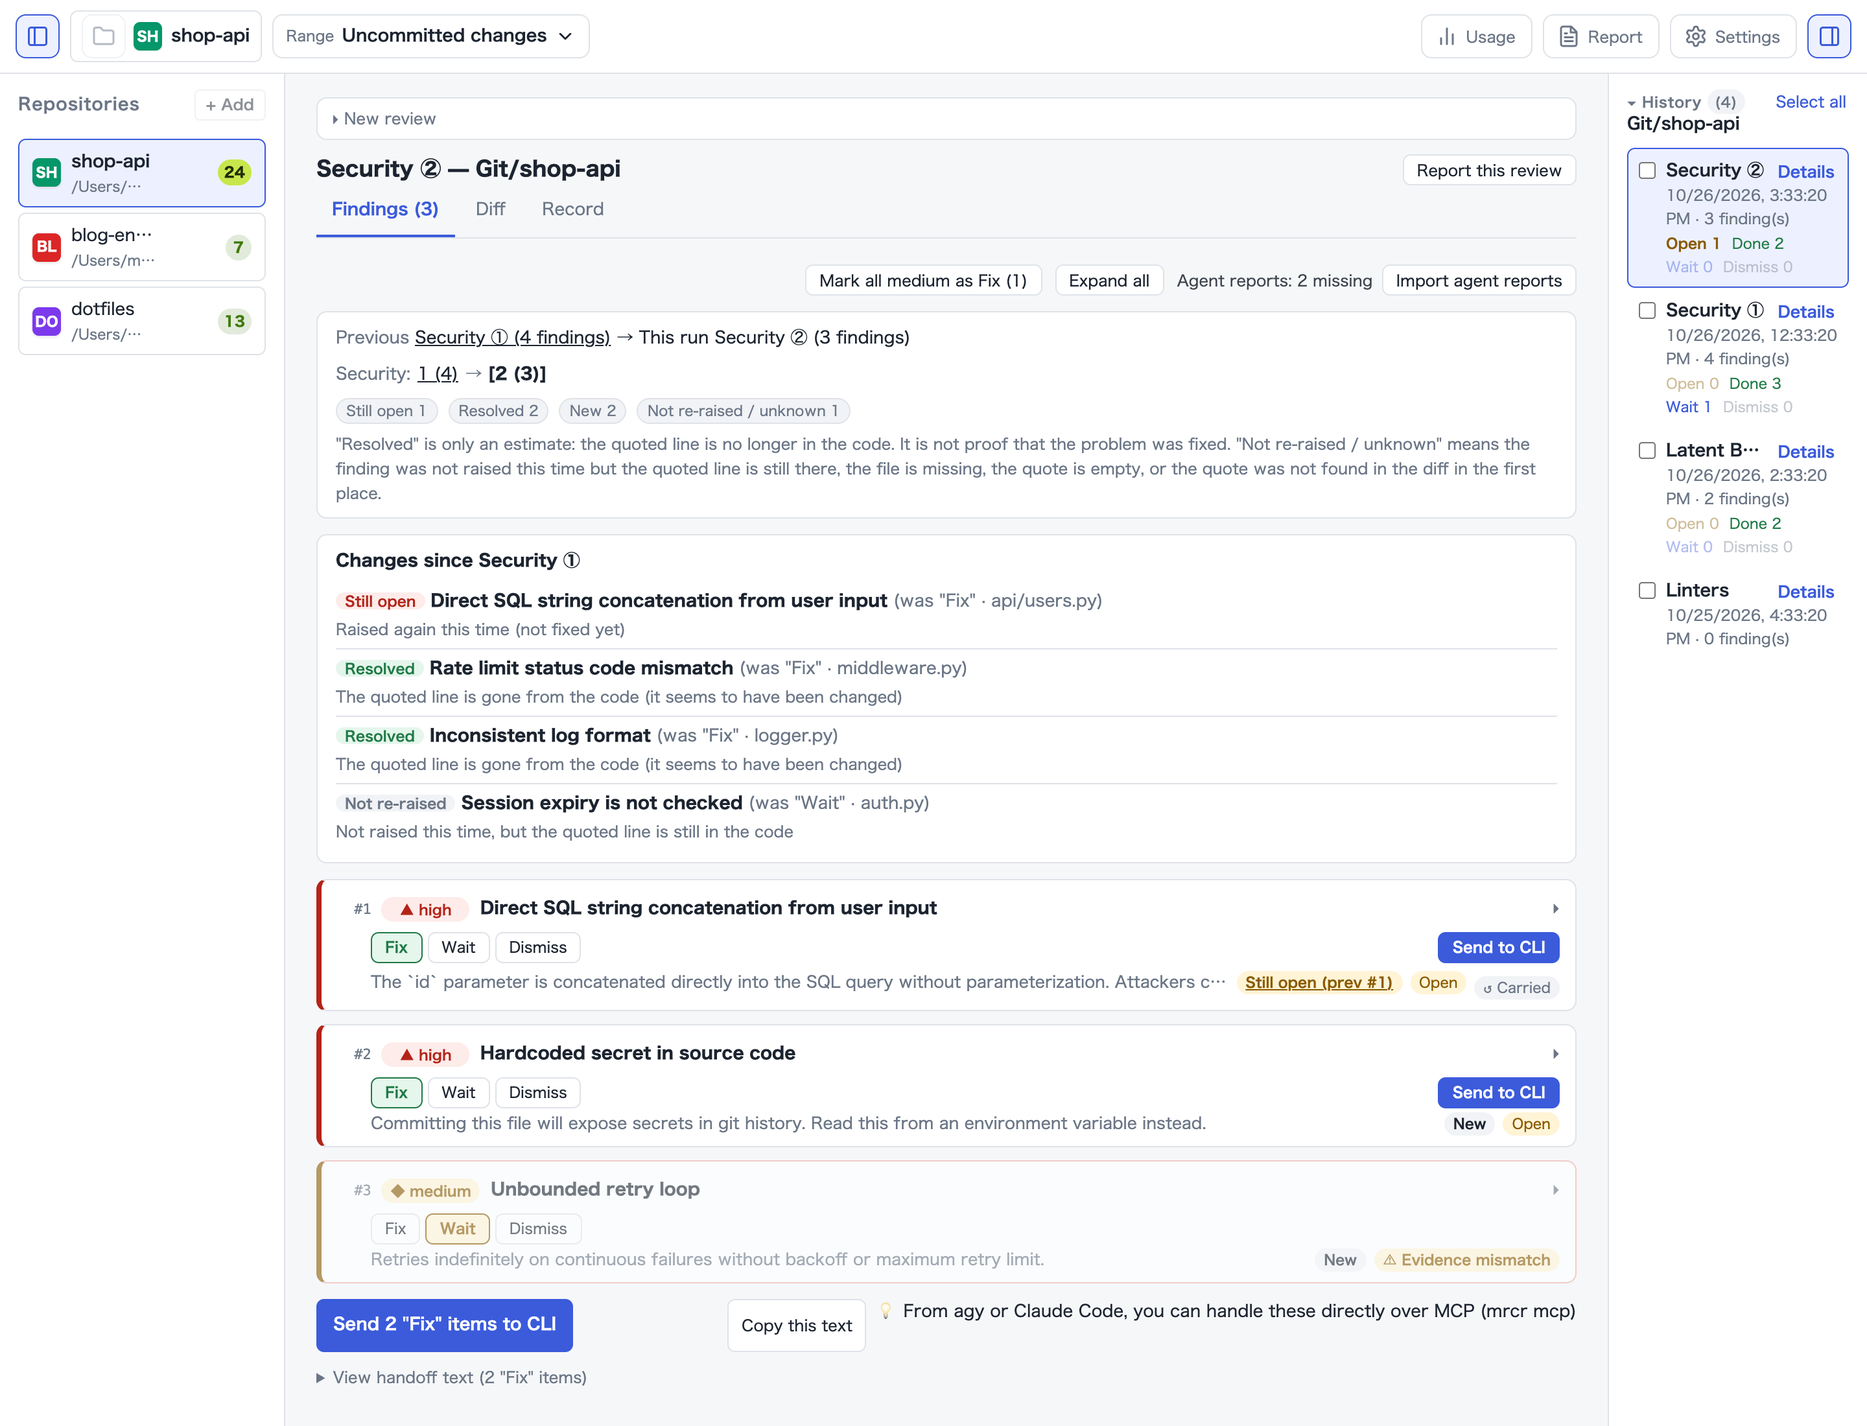
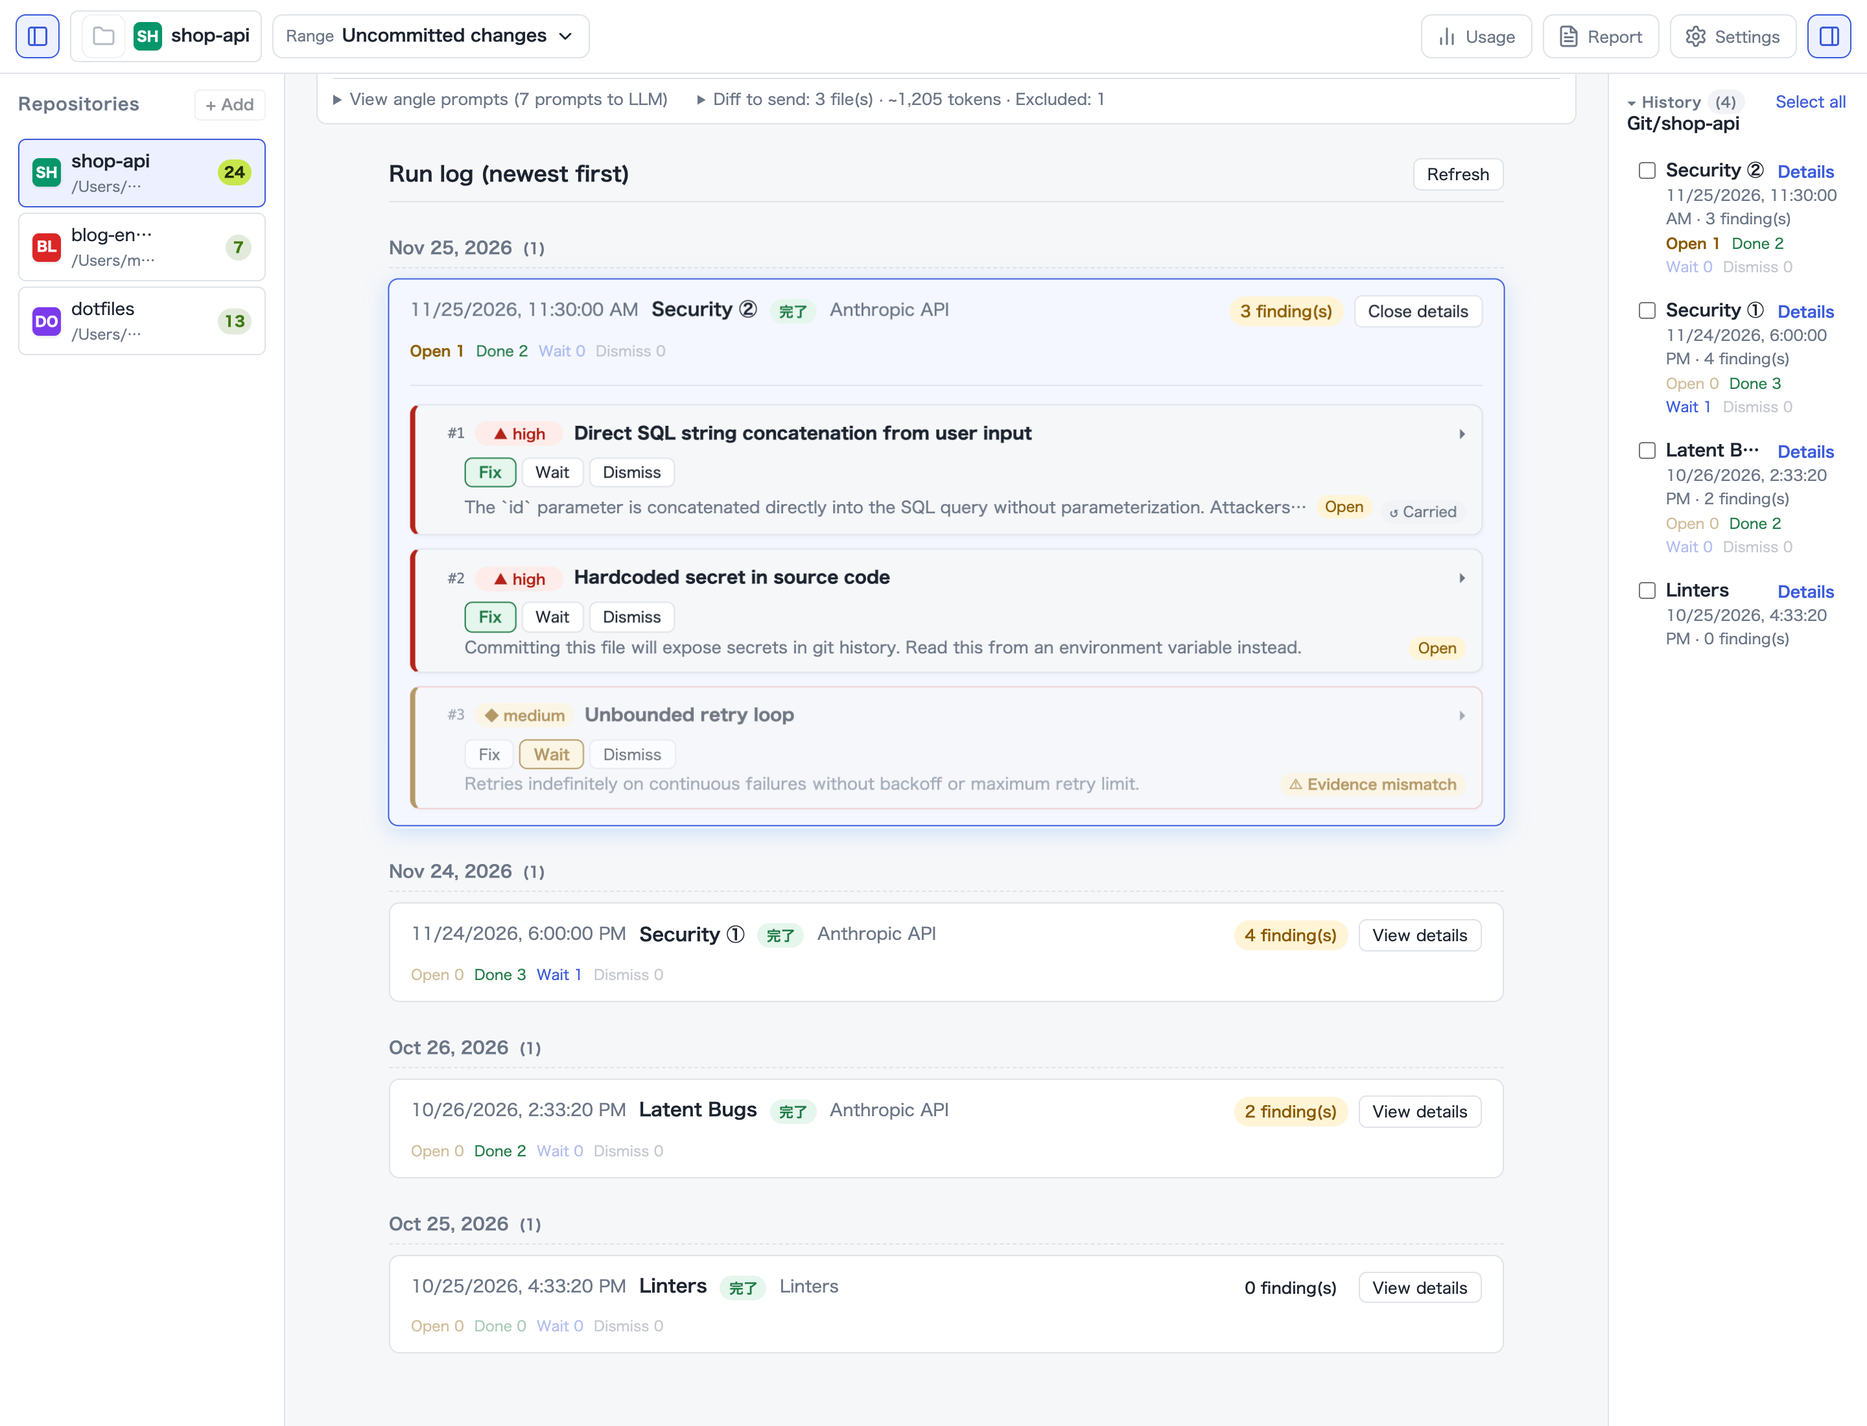
docs: README の hero 画像を最新UI（v1.13.1）に更新し、実行ログタイムライン・インライン展開の画像を追加

diff --git a/app/scripts/take_all_lp_shots.py b/app/scripts/take_all_lp_shots.py
@@ -1,0 +1,326 @@
+#!/usr/bin/env python3
+"""
+Generate LP & README screenshots for MrCodeReview (ja and en):
+1. hero: Review detail screen (findings, diff, continuity banner, triage)
+2. runlog-feed: Initial screen with execution log timeline & inline 2-level expansion
+
+Outputs:
+- MrCodeReview/art/hero.png, hero-en.png (2880x2200)
+- MrCodeReview/art/runlog-feed.png, runlog-feed-en.png (2880x2200)
+- MrkTools/public/assets/mrcodereview/media/hero-v2.png, hero-v2-en.png (2400x1500)
+- MrkTools/public/assets/mrcodereview/media/feature-runlog.png, feature-runlog-en.png (2400x1500)
+- MrkTools/local/hero-shots/mrcodereview/ja/hero.png, en/hero.png
+"""
+import copy
+import datetime
+import importlib.util
+import json
+import os
+import pathlib
+import socket
+import subprocess
+import sys
+import time
+import urllib.request
+from playwright.sync_api import sync_playwright
+
+ROOT = pathlib.Path(__file__).resolve().parent.parent.parent  # MrCodeReview/
+APP = ROOT / "app"
+MRKTOOLS = pathlib.Path.home() / "Git/MrkTools"
+
+EXE = "/Applications/Google Chrome.app/Contents/MacOS/Google Chrome"
+if not os.path.exists(EXE):
+    EXE = "/Users/hitoshi/Library/Caches/ms-playwright/chromium_headless_shell-1234/chrome-headless-shell-mac-arm64/chrome-headless-shell"
+
+spec = importlib.util.spec_from_file_location("lp_en", APP / "scripts" / "take_lp_shots_en.py")
+lp = importlib.util.module_from_spec(spec)
+spec.loader.exec_module(lp)
+
+JA_FINDINGS = [
+    ("ユーザー入力を SQL に直接つないでいる", "id をそのまま SQL に連結しているため、`1 OR 1=1` のような入力で、全ユーザーの行が返ります。プレースホルダ（$1）に戻してください。"),
+    ("秘密の値がソースに直書きされている", "コミットすると、履歴に残ります。環境変数から読む形にしてください。"),
+    ("リトライの上限が無い", "失敗が続くと、無限に再試行します。"),
+]
+JA_RECIPES = ["セキュリティ", "潜在バグ", "例外処理", "パフォーマンス", "テスト不足", "ファイル間の不整合", "リンター"]
+
+NOW = 1795500000000  # 約 2026-11-25
+JST = datetime.timezone(datetime.timedelta(hours=9))
+
+
+def ms(d, h, m, s):
+    return int(datetime.datetime(2026, 11, d, h, m, s, tzinfo=JST).timestamp() * 1000)
+
+
+def make_hook_status(lang):
+    ja = lang == "ja"
+    return {
+        "repo": "/Users/me/Git/shop-api",
+        "enabled": True,
+        "recipes": ["bugs", "security"],
+        "spec": None,
+        "installed": True,
+        "cli": "/opt/homebrew/bin/mrcr",
+        "hook_cli": "/opt/homebrew/bin/mrcr",
+        "blocked": None,
+        "target_missing": False,
+        "last_run": None,
+        "recent": [
+            {
+                "run": "run-hook-1",
+                "started_at_ms": ms(25, 12, 10, 0),
+                "commit": "a4f82bc",
+                "subject": "SQL クエリのプレースホルダ修正" if ja else "Fix SQL query placeholders",
+                "recipes": ["bugs", "security"],
+                "steps": [
+                    {"recipe": "bugs", "index": 1, "total": 2, "ok": True, "findings": 0, "ms": 2800, "error": None},
+                    {"recipe": "security", "index": 2, "total": 2, "ok": True, "findings": 1, "ms": 3200, "error": None},
+                ],
+                "state": "done",
+                "code": 1,
+                "message": "レビュー完了（指摘あり 1 件）" if ja else "Review finished (1 finding)",
+                "findings": 1,
+                "ms": 6000,
+            }
+        ],
+        "log_unreadable": 0,
+    }
+
+
+def add_continuity_data(d, lang):
+    ja = lang == "ja"
+    rev = d["review"]
+    first = d["hist"][0]
+    prev = {
+        **first,
+        "id": "r0",
+        "seq": 1,
+        "created_at": ms(24, 18, 0, 0),  # 前日
+        "findings": 4,
+        "verified": 4,
+        "total_tokens": 2400,
+        "counts": {"open": 0, "done": 3, "wait": 1, "dismiss": 0},
+    }
+    first["seq"] = rev["seq"] = 2
+    first["created_at"] = ms(25, 11, 30, 0)  # 本日
+    d["hist"].insert(1, prev)
+    rev["previous"] = {"id": "r0", "created_at": prev["created_at"], "findings": 4, "seq": 1}
+    titles = (
+        [
+            ("ユーザー入力を SQL に直接つないでいる", "api/users.py"),
+            ("レート制限超過時のステータスコードが違う", "middleware.py"),
+            ("ログ出力の書式が揃っていない", "logger.py"),
+            ("セッションの有効期限を確かめていない", "auth.py"),
+        ]
+        if ja
+        else [
+            ("Direct SQL string concatenation from user input", "api/users.py"),
+            ("Rate limit status code mismatch", "middleware.py"),
+            ("Inconsistent log format", "logger.py"),
+            ("Session expiry is not checked", "auth.py"),
+        ]
+    )
+    states = ["fix", "fix", "fix", "wait"]
+    outcomes = ["persists", "gone", "gone", "not_reraised"]
+    rev["fates"] = [
+        {"from_review": "r0", "from_index": i, "title": t, "file": f, "state_before": states[i], "fate": outcomes[i]}
+        for i, (t, f) in enumerate(titles)
+    ]
+    rev["carries"] = [{"from_review": "r0", "from_index": 0, "state": "fix", "exact": True}, None, None]
+
+
+def get_demo_data(lang):
+    d = copy.deepcopy(lp.make_demo_data())
+    ja = lang == "ja"
+    if ja:
+        for f, (t, det) in zip(d["review"]["findings"], JA_FINDINGS):
+            f["title"], f["detail"] = t, det
+        for r, t in zip(d["recipes"]["recipes"], JA_RECIPES):
+            r["title"] = t
+        d["review"]["recipe"] = d["recipes"]["recipes"][0]
+        d["providers"][0]["note"] = "自分の API キーで、直接送ります。中継のサーバはありません。"
+        d["snap"]["excluded"] = d["review"]["snapshot"]["excluded"] = [{"path": "package-lock.json", "reason": "ロックファイル"}]
+        d["hist"][0]["recipe_title"], d["hist"][1]["recipe_title"], d["hist"][2]["recipe_title"] = "セキュリティ", "潜在バグ", "リンター"
+        d["hist"][2]["provider_label"] = "リンター"
+        d["settings"]["values"]["language"] = "ja"
+    add_continuity_data(d, lang)
+    d["hook_status"] = make_hook_status(lang)
+    return d
+
+
+def build_mock_script(lang):
+    data = get_demo_data(lang)
+    handoff_escaped = lp.HANDOFF.replace("'", "\\'")
+    s = f"""
+window.__DATA = {json.dumps(data, ensure_ascii=False)};
+window.__TAURI_INTERNALS__ = {{
+  transformCallback: () => 0,
+  invoke: async (cmd, args) => {{
+    const D = window.__DATA;
+    switch (cmd) {{
+      case 'list_providers': return D.providers;
+      case 'list_bases': return [
+        {{value: 'HEAD', label: '{("コミット前の変更" if lang == "ja" else "Uncommitted changes")}', hint: '{("作業ツリーの変更" if lang == "ja" else "Changes in working tree")}'}},
+        {{value: 'HEAD~1', label: '{("直前のコミット" if lang == "ja" else "Latest commit")}', hint: '{("直前のコミットと、未コミットの変更" if lang == "ja" else "Last commit and uncommitted")}'}}
+      ];
+      case 'list_recipes': return args && args.repo ? D.recipes : {{recipes: D.recipes.recipes.filter(r => r.kind !== 'tool'), warnings: [], lint: null}};
+      case 'preview_snapshot': return D.snap;
+      case 'list_reviews': return D.hist;
+      case 'get_review': return D.review;
+      case 'hook_status': return D.hook_status;
+      case 'get_usage': return D.usage;
+      case 'get_settings': return D.settings;
+      case 'get_report': return D.report;
+      case 'repos_load': return {{repos: [{{id:'a',path:'/Users/me/Git/shop-api'}},{{id:'b',path:'/Users/me/Git/blog-engine'}},{{id:'c',path:'/Users/me/Git/dotfiles'}}], limit: 3, warnings: []}};
+      case 'repo_status': return (args.paths||[]).map(p => ({{path: p, state: 'ok', root: null}}));
+      case 'repo_data': return (args.paths||[]).map((p, i) => ({{path: p, reviews: 3, findings: 9, triaged: 5, memos: 2, open: [24, 7, 13][i] ?? 0}}));
+      case 'byok_status': return {{supported:true,key_set:true,key_last4:'a1B2',key_error:null,model:'claude-sonnet-5-5',max_tokens:8192,config_error:null}};
+      case 'build_handoff': return '{handoff_escaped}';
+      case 'write_handoff': return {{text: '{handoff_escaped}', path: '/Users/me/Git/shop-api/.mrcodereview/out/handoff.md', rel: '.mrcodereview/out/handoff.md', count: 2, prompt: 'Read .mrcodereview/out/handoff.md and fix the findings listed under "Fix". Do not touch "Not now".'}};
+      case 'set_triage': {{
+        window.__TRI = window.__TRI || D.review.triage.slice();
+        window.__TRI[args.index] = args.status;
+        return {{triage: window.__TRI.slice(), notes: D.review.finding_notes}};
+      }}
+      case 'update_handling': return {{triage: D.review.triage, notes: D.review.finding_notes}};
+      case 'update_finding_memo': return {{triage: D.review.triage, notes: D.review.finding_notes}};
+      case 'toggle_finding_done': return {{triage: D.review.triage, notes: D.review.finding_notes}};
+      default: return null;
+    }}
+  }},
+}};
+try {{
+  localStorage.setItem('mrcr.repo', '/Users/me/Git/shop-api');
+  localStorage.setItem('mrcr.base', 'HEAD');
+  localStorage.setItem('mrcodereview.language', '{lang}');
+}} catch (e) {{}}
+"""
+    return s
+
+
+def free_port():
+    with socket.socket() as k:
+        k.bind(("127.0.0.1", 0))
+        return k.getsockname()[1]
+
+
+def capture(lang, port):
+    print(f"\n==================== Capturing for {lang.upper()} ====================")
+    mock = build_mock_script(lang)
+    is_ja = lang == "ja"
+
+    out_art = ROOT / "art"
+    out_media = MRKTOOLS / "public/assets/mrcodereview/media"
+    out_shots = MRKTOOLS / f"local/hero-shots/mrcodereview/{lang}"
+    out_art.mkdir(parents=True, exist_ok=True)
+    out_media.mkdir(parents=True, exist_ok=True)
+    out_shots.mkdir(parents=True, exist_ok=True)
+
+    with sync_playwright() as p:
+        browser = p.chromium.launch(executable_path=EXE)
+
+        # -------------------------------------------------------------
+        # 1. runlog-feed: 初期画面 実行ログタイムライン ＆ 2階層インライン展開
+        # -------------------------------------------------------------
+        print(f"[{lang}] 1. runlog-feed (initial screen + inline expansion)...")
+        # LP 用: 2400x1500 (1200x750 @2x)
+        ctx = browser.new_context(
+            viewport={"width": 1200, "height": 750},
+            locale="ja-JP" if is_ja else "en-US",
+            color_scheme="light",
+            device_scale_factor=2,
+        )
+        page = ctx.new_page()
+        page.add_init_script(mock)
+        page.goto(f"http://127.0.0.1:{port}/")
+        page.wait_for_selector(".topbar", timeout=15000)
+        page.wait_for_timeout(800)
+
+        # 実行ログカードの1つ目（最新レビュー）をクリックしてインライン展開
+        card_btn = page.locator(".runlog-card .primary").first
+        if card_btn.count() > 0:
+            card_btn.click()
+            page.wait_for_timeout(600)
+
+        # LP 用 2400x1500
+        path_lp_feed = out_media / ("feature-runlog.png" if is_ja else "feature-runlog-en.png")
+        page.screenshot(path=str(path_lp_feed))
+        print(f"  -> Saved LP runlog: {path_lp_feed}")
+
+        # README 用: 2880x2200 (1440x1100 @2x)
+        page.set_viewport_size({"width": 1440, "height": 1100})
+        page.wait_for_timeout(400)
+        path_art_feed = out_art / ("runlog-feed.png" if is_ja else "runlog-feed-en.png")
+        page.screenshot(path=str(path_art_feed))
+        print(f"  -> Saved README runlog: {path_art_feed}")
+        ctx.close()
+
+        # -------------------------------------------------------------
+        # 2. hero: レビュー詳細画面（指摘カード・差分・つなぎ帯・仕分け）
+        # -------------------------------------------------------------
+        print(f"[{lang}] 2. hero (review detail screen)...")
+        # LP 用: 2400x1500 (1200x750 @2x)
+        ctx = browser.new_context(
+            viewport={"width": 1200, "height": 750},
+            locale="ja-JP" if is_ja else "en-US",
+            color_scheme="light",
+            device_scale_factor=2,
+        )
+        page = ctx.new_page()
+        page.add_init_script(mock)
+        page.goto(f"http://127.0.0.1:{port}/")
+        page.wait_for_selector(".topbar", timeout=15000)
+        page.wait_for_timeout(600)
+
+        # 右パネルの履歴1件目をクリックして詳細画面へ遷移
+        page.click(".history li >> nth=0 >> .hbody")
+        page.wait_for_timeout(600)
+
+        # LP 用 2400x1500
+        path_lp_hero = out_media / ("hero-v2.png" if is_ja else "hero-v2-en.png")
+        page.screenshot(path=str(path_lp_hero))
+        print(f"  -> Saved LP hero: {path_lp_hero}")
+
+        path_shots_hero = out_shots / "hero.png"
+        page.screenshot(path=str(path_shots_hero))
+        print(f"  -> Saved hero-shots: {path_shots_hero}")
+
+        # README 用: 2880x2200 (1440x1100 @2x)
+        page.set_viewport_size({"width": 1440, "height": 1100})
+        page.wait_for_timeout(400)
+        path_art_hero = out_art / ("hero.png" if is_ja else "hero-en.png")
+        page.screenshot(path=str(path_art_hero))
+        print(f"  -> Saved README hero: {path_art_hero}")
+
+        ctx.close()
+        browser.close()
+
+
+def main():
+    port = free_port()
+    print(f"Starting Vite on port {port}...")
+    vite = subprocess.Popen(
+        ["npx", "vite", "--port", str(port), "--strictPort", "--host", "127.0.0.1"],
+        cwd=APP,
+        stdout=subprocess.DEVNULL,
+        stderr=subprocess.DEVNULL,
+    )
+    try:
+        for _ in range(120):
+            try:
+                urllib.request.urlopen(f"http://127.0.0.1:{port}/", timeout=2).read()
+                break
+            except Exception:
+                time.sleep(0.5)
+        else:
+            sys.exit("Vite が起動しませんでした")
+        print("Vite started successfully.")
+
+        capture("ja", port)
+        capture("en", port)
+        print("\nAll screenshots generated successfully!")
+    finally:
+        vite.terminate()
+
+
+if __name__ == "__main__":
+    main()

diff --git a/README.ja.md b/README.ja.md
@@ -22,8 +22,12 @@
 - **観点を混ぜない（1回1実行の原則）**: 1 つのプロンプトに複数の観点を混ぜず、観点ごとに集中して高精度にレビュー。結果は 1 つのレポートに束ねます。
 - **でっち上げ（ハルシネーション）の即時検出**: モデルが引用した行が実際の差分に存在するかを文字列照合し、「根拠あり」「⚠ 根拠不一致」を自動判定します。
 - **コーディングエージェントとの完全連携**: レビュー結果を `.mrcodereview/out/review.md`（または JSON）に自動出力。`Claude Code` や `agy` にそのまま読ませて自動修正ループを回せます。
-- **コミットのあとの自動レビュー（Git フック）**: デスクトップアプリの設定（Git フック）か `mrcr hook enable` で ON にします。直前のコミットだけを、バックグラウンドでレビューし、コミットは止めません。どのコミットを、どの観点で、何件・何秒で見たかは、実行ログで分かります。
+- **コミットのあとの自動レビュー（Git フック）＆ 実行ログ**: デスクトップアプリの設定（Git フック）か `mrcr hook enable` で ON にします。直前のコミットだけを、バックグラウンドでレビューし、コミットは止めません。結果は初期画面の実行ログタイムラインに日付ごとに並び、画面遷移なしでインライン展開して指摘の確認・仕分けができます。
 - **Pure Rust & Tauri v2 実装**: 超軽量・高速。Apple Silicon ネイティブ対応（Developer ID 署名 ＋ Apple 公証済み）。
+
+<p align="center">
+  <img src="art/runlog-feed.png" alt="MrCodeReview 初期画面の実行ログタイムラインとインライン展開" width="900">
+</p>
 
 ---
 

diff --git a/README.md b/README.md
@@ -22,8 +22,12 @@ Provides both a visual **Mac desktop app (GUI)** and a command-line **CLI tool (
 - **Isolated Aspect Reviews**: Instead of generic code reviews, each aspect is executed independently for maximum focus and depth, then bundled into a single report.
 - **Hallucination Detection**: Strictly verifies quoted lines against actual git diffs, automatically labeling them `Evidence found` or `⚠ Evidence mismatch`.
 - **Coding Agent Handoff**: Automatically outputs findings to `.mrcodereview/out/review.md` (or structured JSON). Hand off directly to coding agents like `Claude Code` or `agy` for automated fix loops.
-- **Automatic review after each commit (Git hook)**: Turn it on from the desktop app (Settings → Git Hook) or with `mrcr hook enable`. Only the commit you just made is reviewed, in the background, and the commit is never blocked. A run log shows which commit, which recipes, how many findings and how long it took.
+- **Automatic review after each commit (Git hook) & Run Log**: Turn it on from the desktop app (Settings → Git Hook) or with `mrcr hook enable`. Only the commit you just made is reviewed in the background, and the commit is never blocked. Results appear in the initial screen's run log timeline grouped by date, and can be expanded inline without page navigation to inspect and triage findings directly.
 - **Pure Rust & Tauri v2**: Ultra-lightweight and fast. Native Apple Silicon support (Developer ID signed & Apple notarized).
+
+<p align="center">
+  <img src="art/runlog-feed-en.png" alt="MrCodeReview Run Log Timeline & Inline Expansion on Initial Screen" width="900">
+</p>
 
 ---
 
